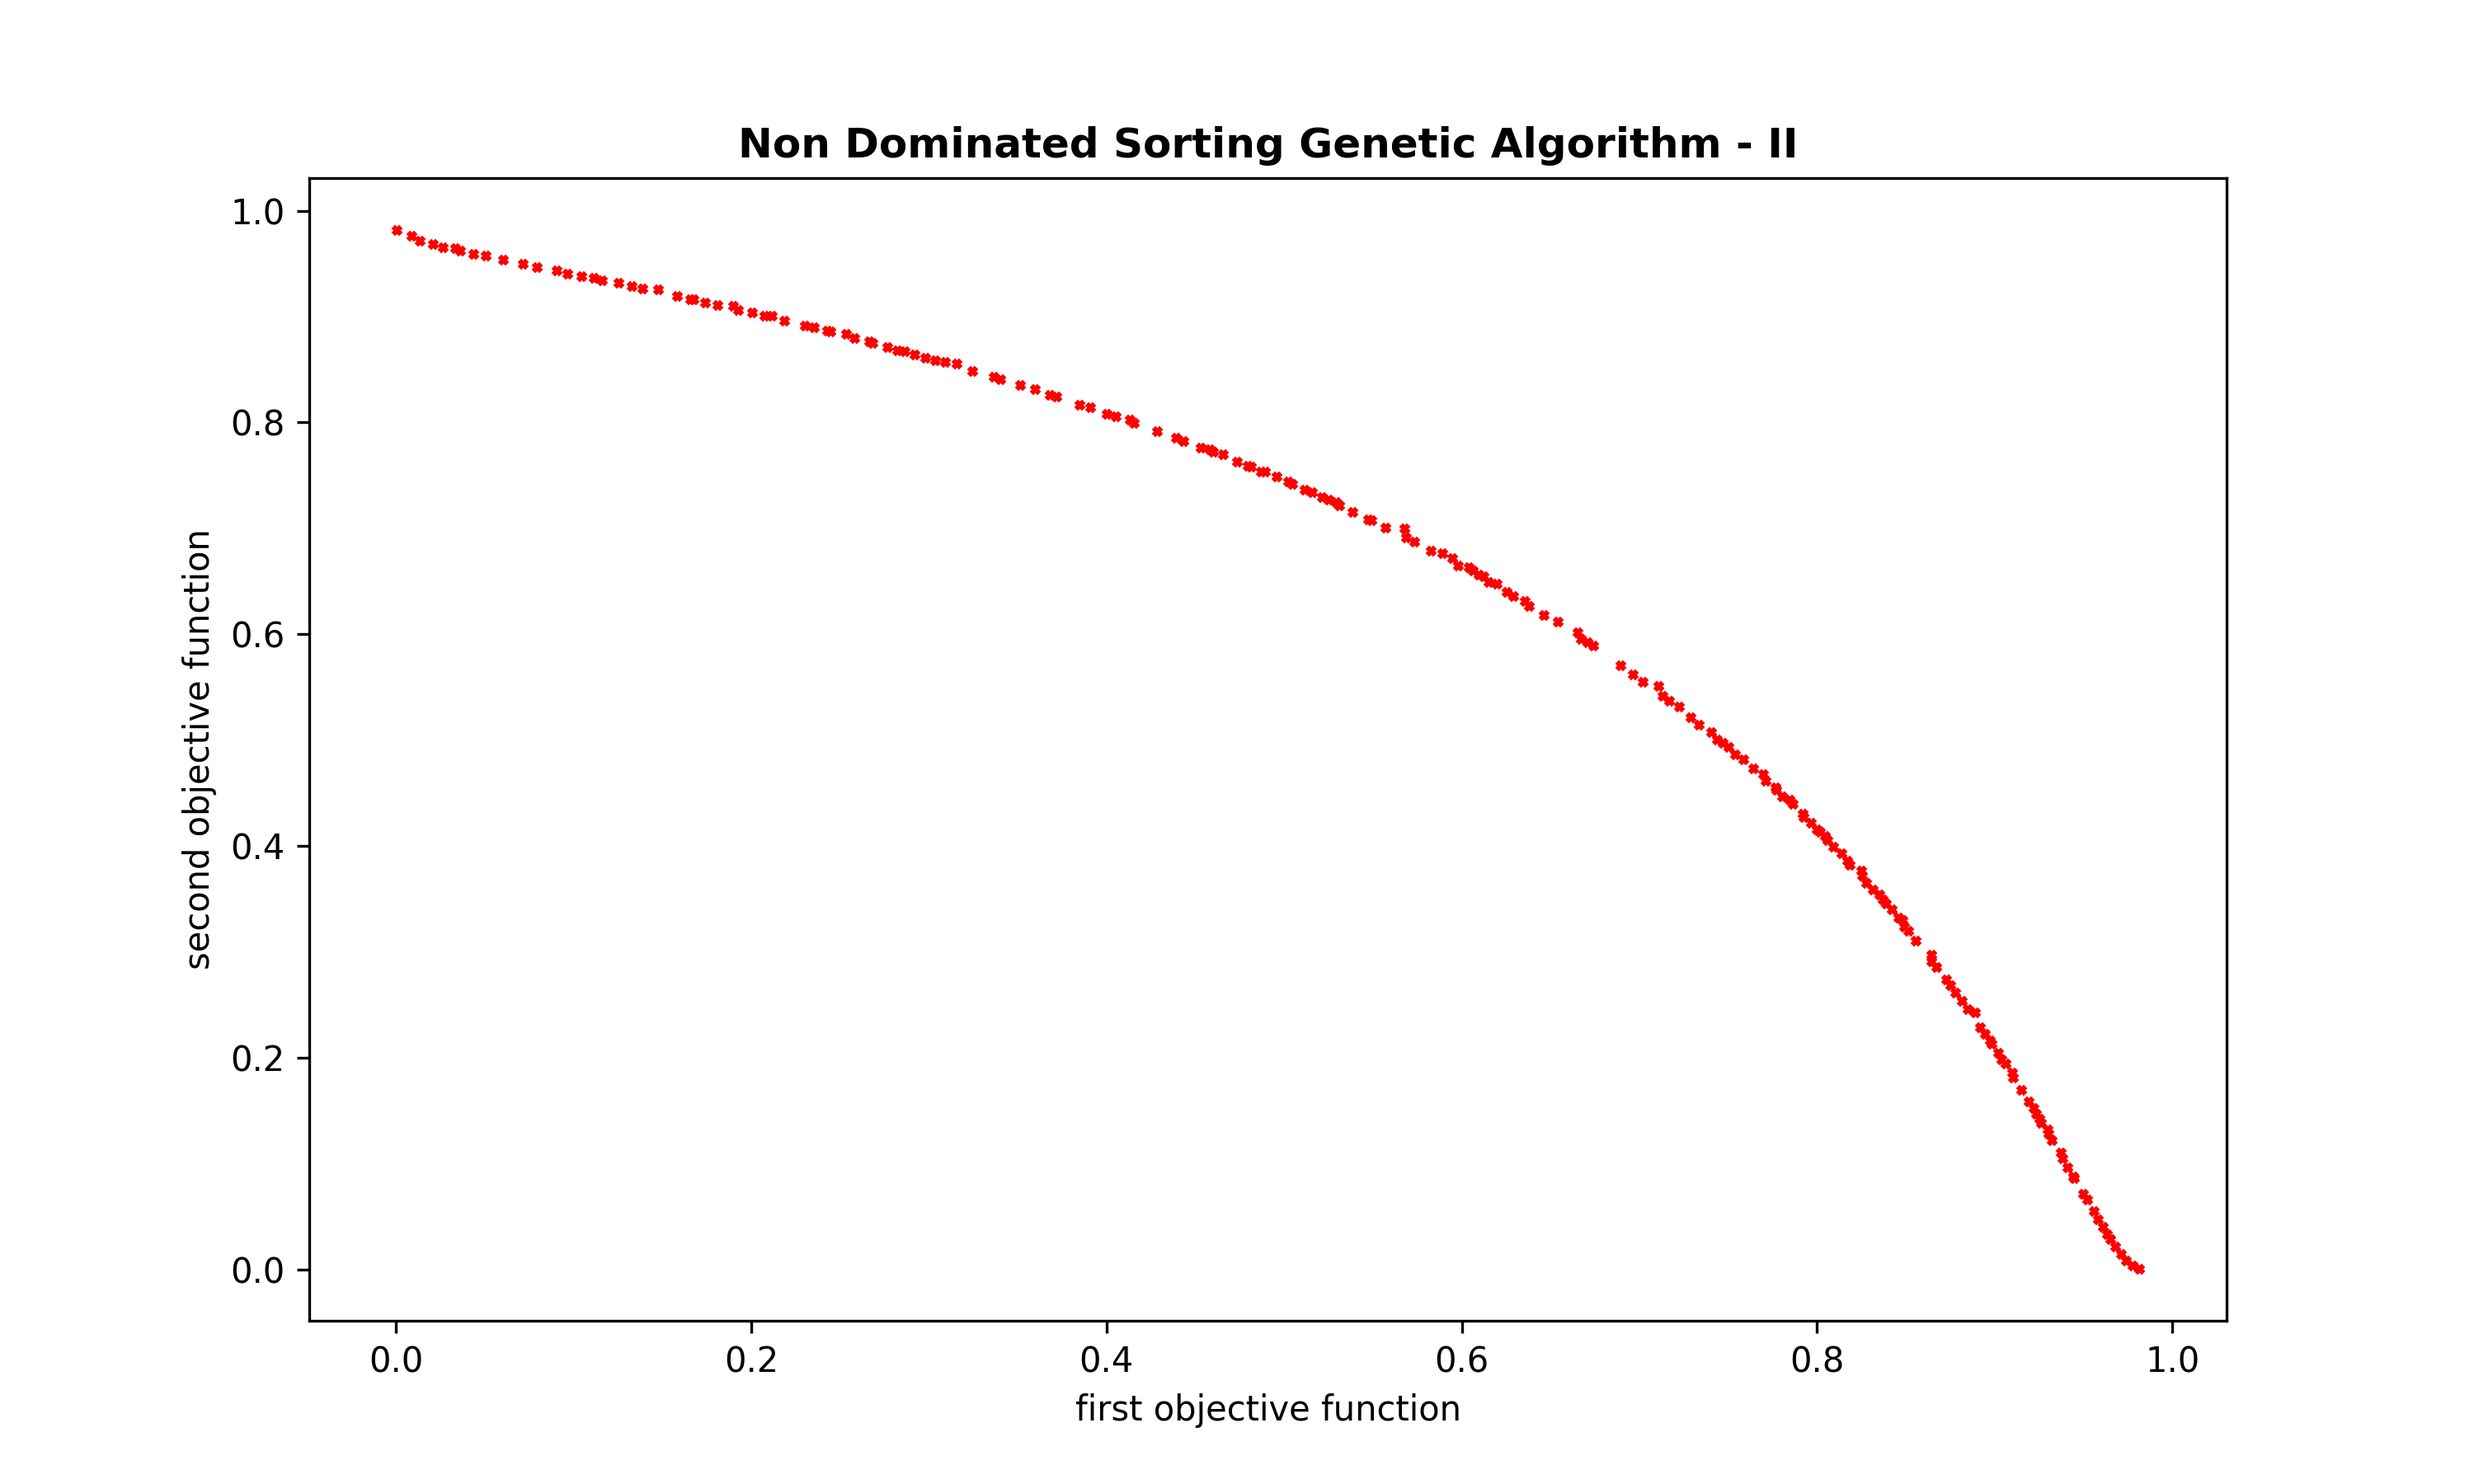
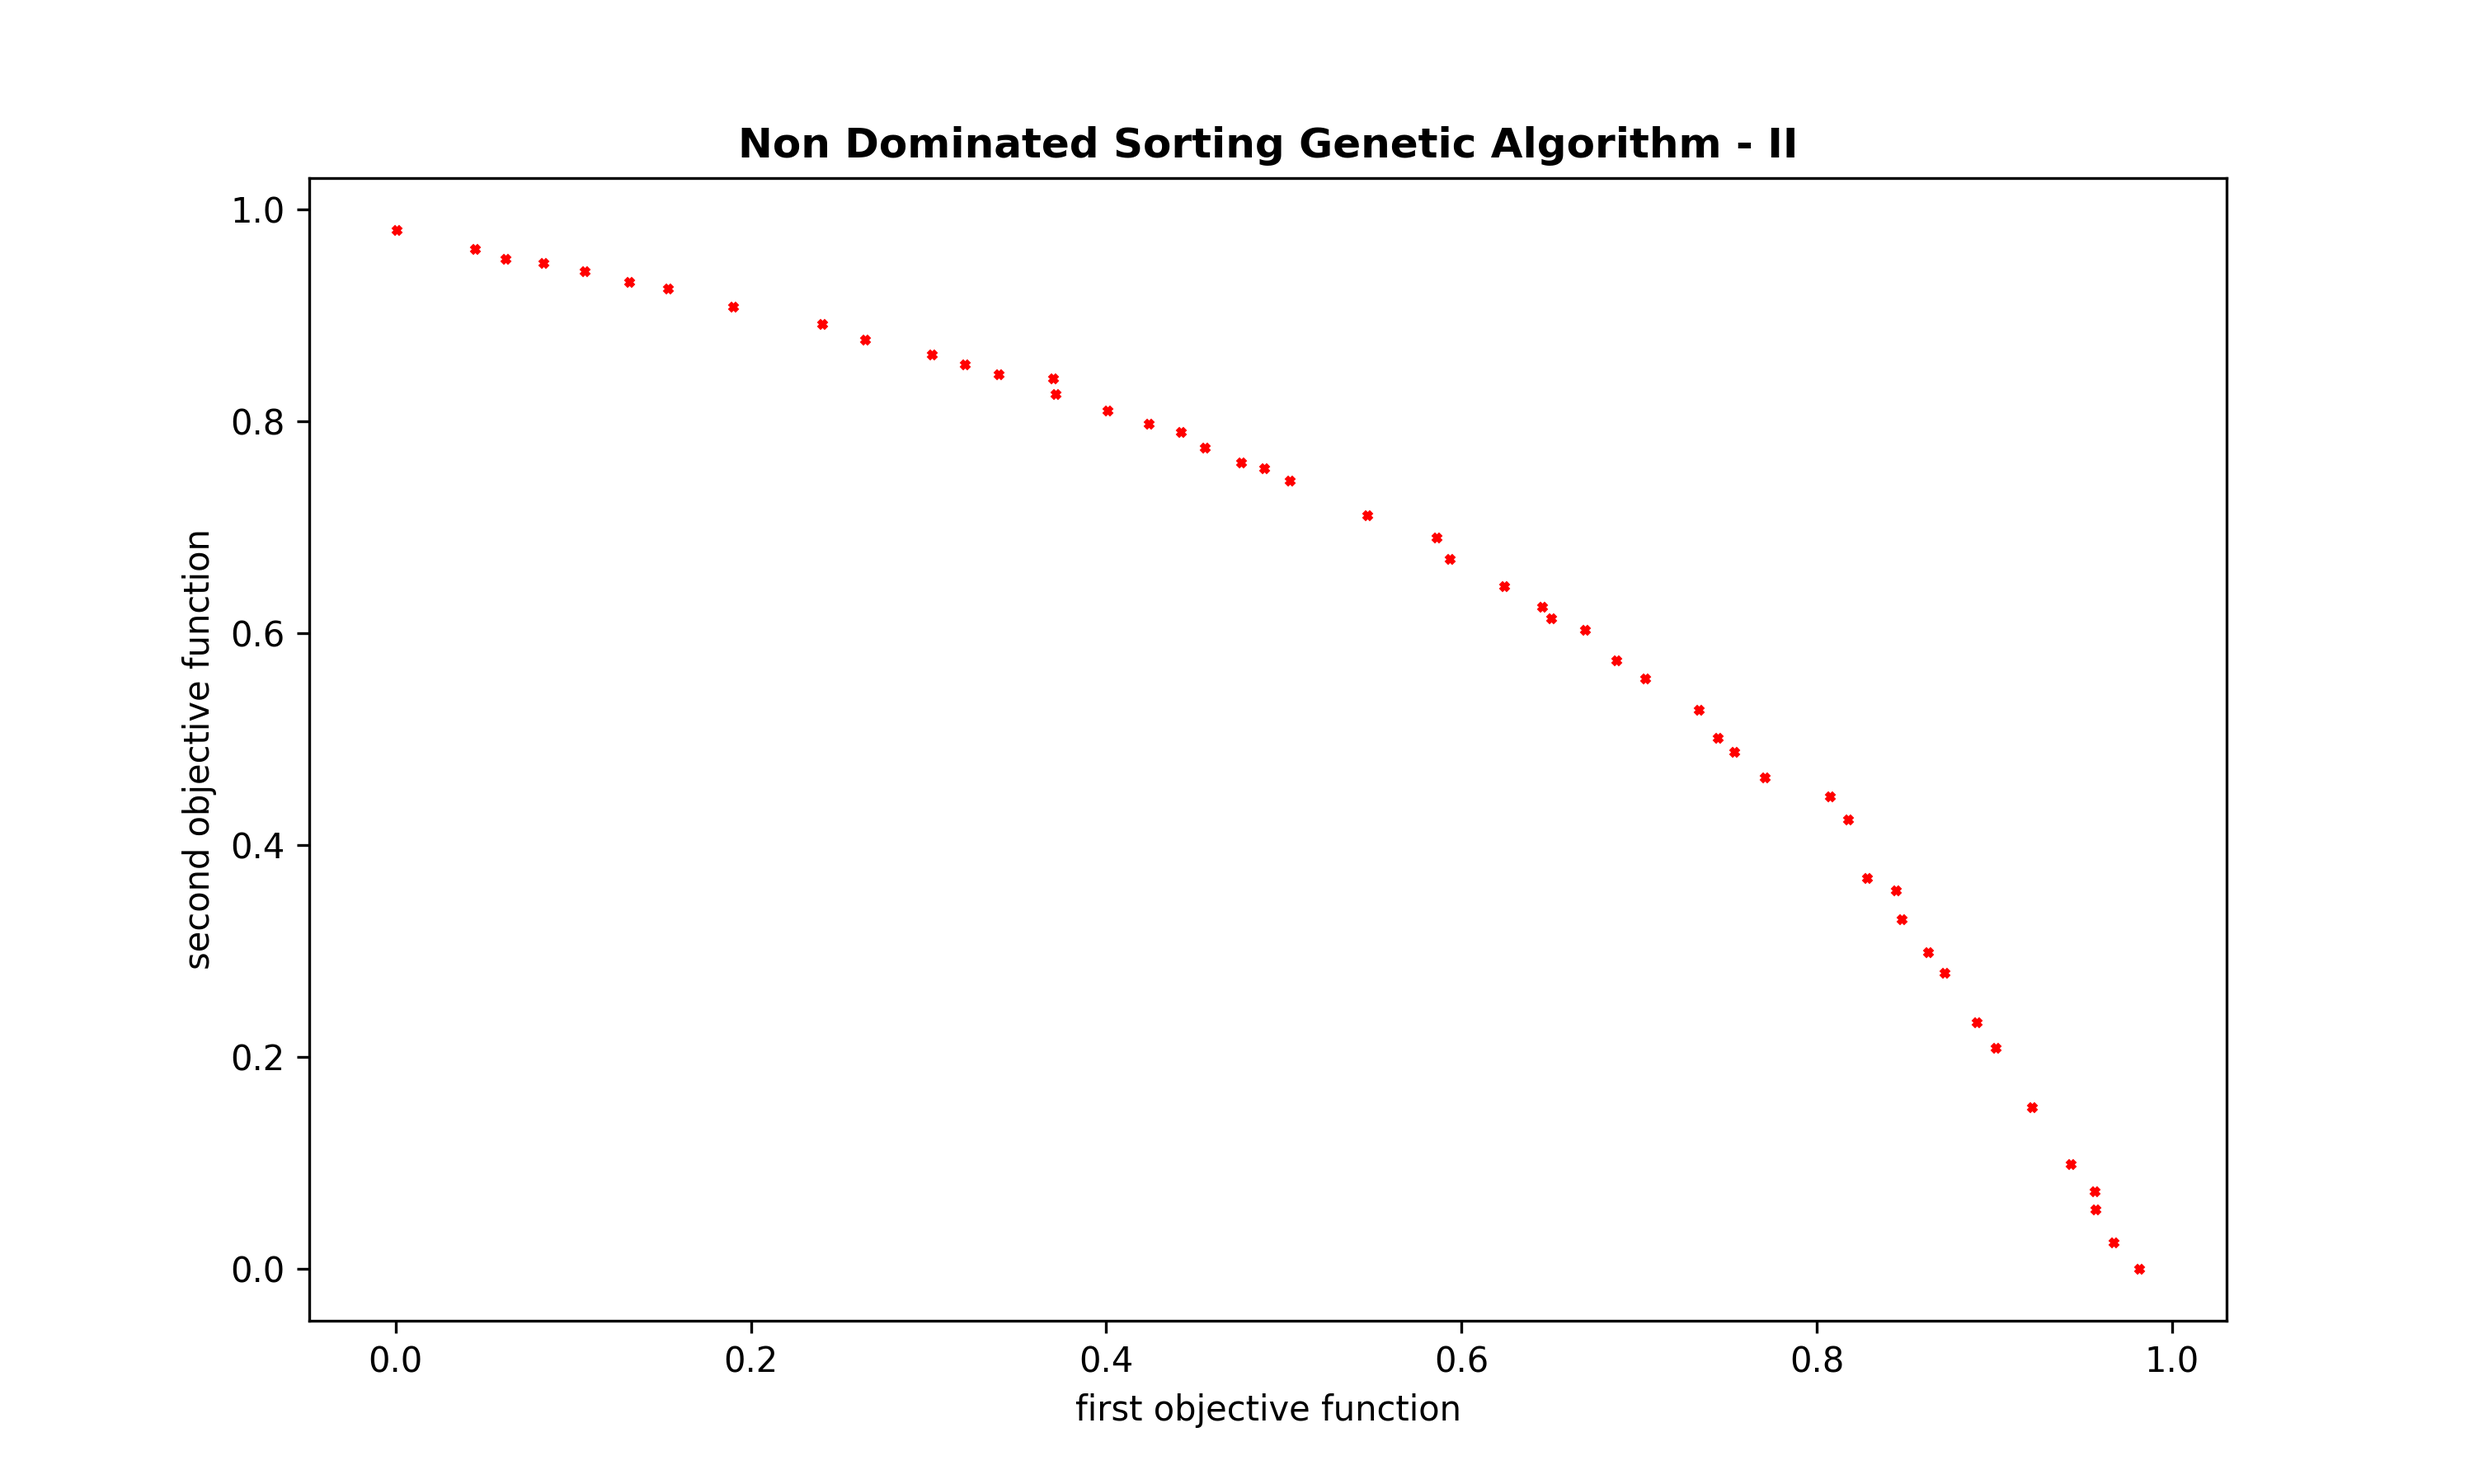
non dominated sorting genetic algorithm - II.

diff --git a/mop2_using_nsgaII/main.py b/mop2_using_nsgaII/main.py
@@ -10,8 +10,8 @@ def main():
                              min_range_variables=-4,
                              max_range_variables=4,
                              cost_function=cost_func,
-                             max_iteration=200,
-                             number_population=200,
+                             max_iteration=100,
+                             number_population=50,
                              crossover_percentage=0.8,
                              mutation_percentage=0.4,
                              mutation_rate=0.03)

diff --git a/nsga_II.py b/nsga_II.py
@@ -233,6 +233,7 @@ class NSGAII:
 
         offspring[0, indices] = position[0, indices] + 0.1 * (self._max_range_variables - self._min_range_variables) * np.random.randn(number_mutants)
 
+        offspring = np.clip(offspring, self._min_range_variables, self._max_range_variables)
 
         return offspring
 
